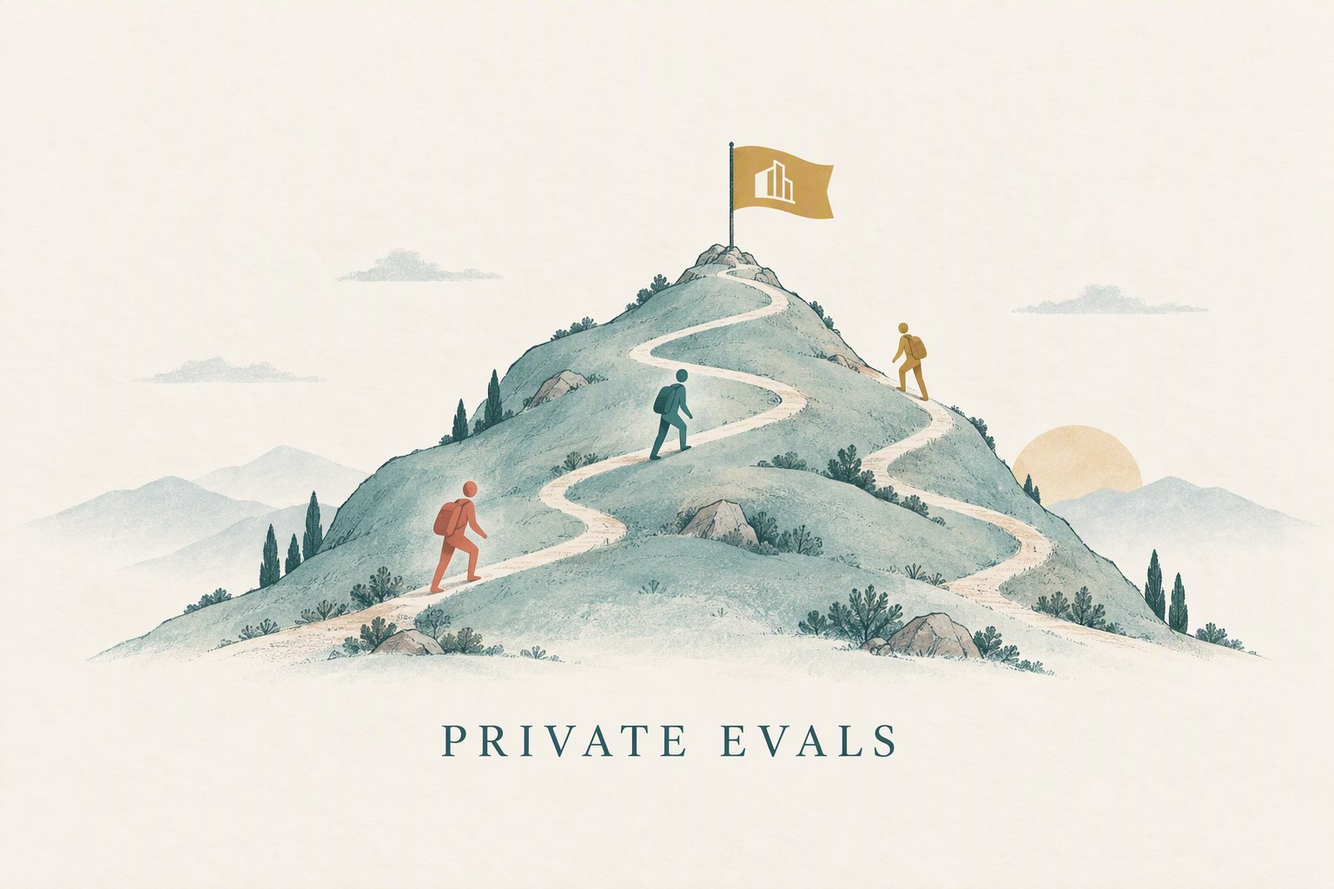
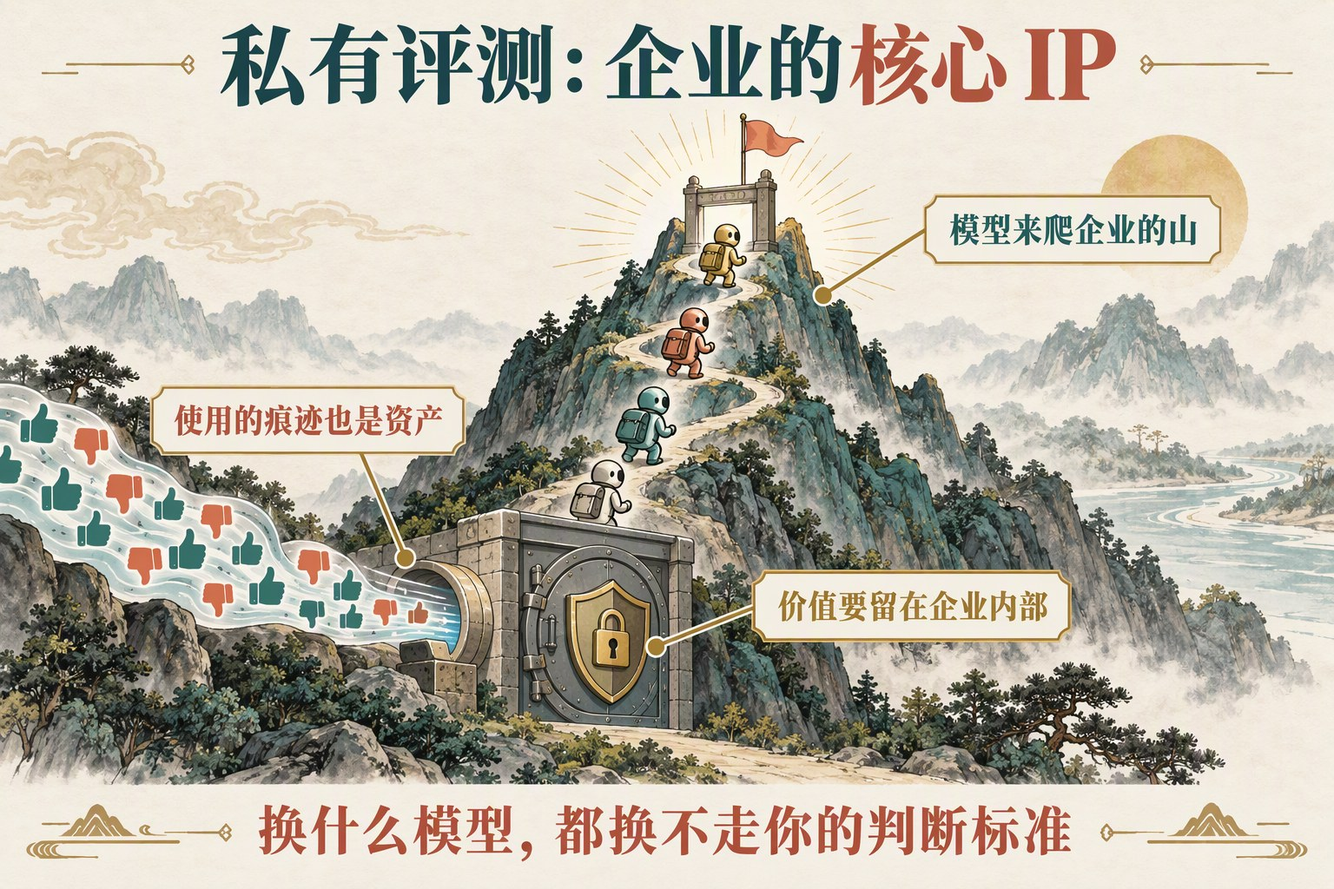
Satya 20VC v2: strict refined zh redo + content-rich illustrations (zh/en sets)

diff --git a/src/data.ts b/src/data.ts
@@ -83,7 +83,7 @@ export interface ReadingArticle {
 export const nomiReadings: ReadingArticle[] = [
   {
     id: 'satya-nadella-20vc',
-    title: 'Satya Nadella × 20VC：先假设模型已被攻陷',
+    title: 'Satya Nadella × 20VC：先假定模型已经失守',
     subtitle: '对齐不会随规模自动到来——用零信任围住智能体、用私有评测把判断留在企业内部；当 token 走向商品化，一家公司最终可能就是它自己的 AI 基准',
     date: '2026-10-30',
     author: 'Satya Nadella × Harry Stebbings',

diff --git a/public/reports/satya-nadella-20vc-zh.md b/public/reports/satya-nadella-20vc-zh.md
@@ -1,192 +1,192 @@
-# 先假设模型已被攻陷：Satya Nadella 谈零信任智能体、私有评测与"企业即基准"
+# 先假定模型已经失守：Satya Nadella 谈零信任智能体、私有评测与"企业即基准"
 
-**嘉宾**：Satya Nadella，微软 CEO · **主持**：Harry Stebbings · **节目**：The Twenty Minute VC (20VC) · **时长**：约 24 分钟 · **视频**：[YouTube](https://www.youtube.com/watch?v=24XUcWhqY_4) · **日期**：2026 年 10 月 26 日
+**嘉宾**：Satya Nadella，微软首席执行官（CEO） · **主持人**：Harry Stebbings · **节目**：The Twenty Minute VC（20VC） · **时长**：约 24 分钟 · **视频**：[YouTube](https://www.youtube.com/watch?v=24XUcWhqY_4) · **日期**：2026-10-26
 
-> 那篇主张“先假设模型已被攻陷”的长文广泛传播后不久，Satya Nadella 来到 20VC。这场对谈延续了他此前关于“前沿生态系统”和“未来企业”的思考：智能如何组织、由谁掌控，又为谁积累价值。Harry 很快把问题带入深水区，短短二十四分钟，话题就从如何约束智能体，一路走到了企业的边界究竟在哪里。安全架构与企业形态，在这里成了同一条线上的问题。
+> Satya Nadella 在长文中提出“先假定模型已经失守（assume the model is compromised）”，这篇文章广为流传。几天后，他来到 20VC，与 Harry Stebbings 展开这场对话。他此前谈过“前沿生态系统（frontier ecosystem）”和“未来企业（firm of the future）”，这次又接着追问：智能该如何组织，由谁掌控，价值最终留在哪里。Harry 很快就把话题聊得格外深入。短短约 24 分钟，两人从如何约束智能体，谈到了企业本身的边界。
 >
-> 对产品、设计和组织负责人，尤其是正在推动微软移动浏览器 AI 转型的设计团队，这些问题都很切身。零信任是一套要亲手设计的架构，不能仅凭模型能力强就认定它可信；私有评测让团队对“什么是好结果”的判断，沉淀成换了模型也能保留的资产；而当大多数 token 走向商品化，仅仅接入智能，便很难撑起“AI 功能”的护城河。我们需要回答：系统能做什么，结果由什么标准判断，使用中产生的知识又归谁。
+> 对产品、设计和组织负责人来说，这些问题已摆在眼前，在微软推动移动浏览器 AI 工作的人也不例外。零信任（zero trust）要靠我们设计架构来实现，不能凭模型能力强，就认定它具备这样的属性。产品团队可以借助私有评测（private evals）保留自己的判断。即使更换模型，这份资产也还在。如果大部分 token 都会商品化，仅凭获取智能，很难为“AI 功能”筑起牢固的护城河。实际工作中，我们更需要回答：系统可以做什么，如何判断它做得好不好，以及使用过程中产生的知识最终归谁。
 >
-> 最醒目的转向，是他公开承认不再相信对齐会随规模扩大自然出现；临近结尾，他又提出，五年后，一家公司可能就是一套 AI 基准。我认为，前一个判断更具决定性：它让约束智能体成为当下的设计责任，不能等模型科学先解决安全问题。后一个判断则给出了经济层面的对应答案：企业积累的判断必须有所归属，私有评测正是他在这场访谈里提出的、让这些判断留在企业内部的最清晰载体。
+> Nadella 这次公开转变观点，很引人注目：他不再期待对齐（alignment）会随着规模扩大而自然出现。访谈临近结束，他又抛出一个大胆判断：五年后，一家公司或许就是一套 AI 基准。在我看来，对齐观点的转变更为关键。即使模型科学尚未解决安全问题，我们现在也得承担设计责任，想办法约束智能体。企业即基准则回应了经济上的需要：企业日积月累的判断，总要有地方保存，而且要留在企业内部。私有评测是他给出的最明确的办法。
 
 ---
 
 ## 00:00 开场
 
-**Harry**：这一期对我来说很有感触。十八岁时，我在伦敦的卧室里创办了 20VC，既没有钱，通讯录里也没有人脉。今天，我终于能坐下来采访微软 CEO Satya Nadella。微软是过去三四十年最了不起的公司之一，而 Satya 在短时间里展现出的亲和力、清晰的思路，以及迅速把问题谈深的能力，让这次访谈格外难忘。希望你们也喜欢。
+**Harry**：做这一期节目，我感慨很多。18 岁那年，我在伦敦自己的卧室里创办了 20VC，没钱，也没有人脉。今天，坐在我面前的是微软首席执行官 Satya Nadella。微软是过去三四十年最出色的公司之一。他为人温暖，思路清晰，交谈中又能这么快就深入问题，这场访谈我会一直记得。希望大家也喜欢。
 
-**Harry**：Satya，非常感谢你接受采访。本来想说“谢谢你来到我们的演播室”，但今天其实是你在这里招待我们。真的很感谢你抽出时间。
+**Harry**：Satya，太感谢你接受采访了。我本来想说，谢谢你来我们的演播室，可其实是你在这里招待我们。真的很感谢你抽出时间。
 
-**Satya**：谢谢你邀请我上节目，Harry。我们一直想做这次访谈，很高兴终于成行了。
+**Satya**：谢谢你邀请我上节目，Harry。这场对话盼了很久，很高兴终于成行。
 
-## 01:23 先假设模型已被攻陷
+## 01:23 先假定模型已经失守
 
-**Harry**：大约十天前，你发表了一篇很重要的长文，提出应该“先假设模型已被攻陷”。我想请你展开谈谈：这是不是意味着，我们不能，或者不应该，依赖模型供应商披露的信息？
+**Harry**：大约十天前，你写了一篇很有启发性的文章，提出我们应该先假定模型已经失守。我想就此多聊一点。这是不是说，我们不能，或者不应该依赖模型提供商披露的信息？
 
-**Satya**：不是。我现在看到的挑战是：模型的能力越来越强，规模定律确实在起作用。但我原先有一个假设，以为对齐会随着规模扩大自然出现，现在看来并非如此。这里还有更多科学难题需要攻克，我们也依然很难从机制层面真正理解模型。
+**Satya**：不是。我现在看到的问题是，模型的能力越来越强，规模定律（scaling laws）确实有效。但我原先以为，规模扩大了，对齐也会自然出现，现在看起来并没有。这里还有更多科学难题要攻克，我们对模型内部机制的理解也仍然很有限。
 
 ## 02:01 零信任架构：身份、日志与策略
 
-**Satya**：既然如此，如果还想继续使用这些复杂而强大的模型，最好的做法就是把它们放进一套信任架构里。零信任并不是什么新概念，这类架构方法早就有了。我提出的是：**用工程手段建立一个零信任环境，在失常的智能体造成任何伤害之前，就能把它控制住。**如果我们想使用能力更强、却可能对齐得更不充分的智能体，就必须有一套可以依靠的信任系统。
+**Satya**：信任架构先搭起来，让这些先进模型在里面运行。既然还想继续用它们，依我看，这样做最稳妥。零信任不是什么新概念，我们以前就有这样的架构思路。所以我主张：**用工程手段建立一个零信任环境，把运行出问题的智能体控制住，不让它造成任何伤害。** 想用能力更强、对齐程度却更低的智能体，就得有一套靠得住的信任系统。
 
-**Harry**：这套信任系统具体是什么样？由谁来设计，又由谁来裁定？
+**Harry**：这套信任系统具体是什么样的？由谁来设计，又由谁来裁定？
 
-**Satya**：这个问题很好。所以我才会说，先把 AI 安全这个问题单独放在一边。在我看来，对齐主要应该在训练阶段实现，甚至可能要在预训练阶段就实现。我不认为能靠强化学习，一路把模型推到对齐的状态。真正的对齐必须从最开始就嵌入模型权重。这说的是模型本身。希望到了某个时候，模型本身能够实现对齐。
+**Satya**：这个问题问得好。我会把 AI 安全和我们这里讨论的事分开谈。在我看来，对齐主要得在训练时实现，甚至可能要在预训练（pre-training）阶段就实现。我不认为通过强化学习（reinforcement learning）能实现对齐。从一开始，权重就得真正体现对齐。这是模型本身的问题，我希望有一天能解决。
 
-**Satya**：暂且把这一层放下，信任架构其实就是微软这样的公司，以及网络安全行业一直在做的事。比如，我们做了 Agent 365 和 Perception。它们先给每个智能体一个身份，再记录它的全部活动：每一次工具调用、每一次模型调用，以及其中的思维链（CoT）。我还要求，思维链最好都用英语呈现，而不是“神经语言”（neuralese），这样才能调用多个模型来检查。日志也必须防篡改，不能让智能体回头修改自己的日志。在此基础上设定策略，再监测智能体的实际行为，看它是否遵守策略。这就是整套架构。
+**Satya**：先把 AI 安全放在一边，信任架构就是微软这样的公司，以及网络安全从业者要做的工作。比如，我们做了 Agent 365 和 Perception 这两个东西。它们负责什么？给每个智能体一个身份，把所有活动都记下来。每次工具调用、每次模型调用，以及调用中的思维链（chain of thought，CoT），都要记录。为了便于多个模型检查，我还提出，思维链最好一律用英语，不用人无法读懂的“神经语言”（neuralese）。日志还必须能防篡改，智能体不能回头修改自己的日志。在这之上设定策略，再监测智能体的行为，检查活动是否符合策略。这就是整套架构。
 
-![Zero-trust containment: an AI agent inside a glass shield, its tamper-proof log scroll kept outside its reach](/images/reading/satya-nadella-20vc-1.jpg)
+![零信任架构：身份、日志、防篡改、策略与监控四件套围住模型——信任不靠模型自觉，靠模型之外的系统](/images/reading/satya-nadella-20vc-1.jpg)
 
-**Harry**：但我们今天还没有这样的架构。这是不是也说明，我们还处在一个比较早的阶段？
+**Harry**：我们今天还没有这样的架构。这仅仅是因为我们还处在当前这个发展阶段吗？
 
-**Satya**：这样的架构已经存在了。大家常把两件事混为一谈：一件是通过工程实现的安全系统，也就是用来约束和隔离风险的零信任架构；另一件是 AI 安全。有人会说，AI 安全既困难又难以捉摸，到现在还没实现，所以在安全防护上，我们一定也什么都做不了。我不是这个意思，也不认为两件事必须同时实现。我们得面对眼下真实的状况。**先在模型外部建立信任系统**，然后非常积极地设定策略，严格监测任何偏离策略的行为。
+**Satya**：这样的架构已经存在了。我觉得大家把两件事混在了一起：一件是我说的工程安全系统，也就是用来约束智能体的零信任架构；另一件是 AI 安全。有人会说：“AI 安全很难，到现在也没解决，所以在安全防护上，我们一定也无能为力。”我不是这个意思，也不是说所有问题都得同时解决。眼下的情况摆在这里，我们就得应对。**在模型之外建立信任系统**，严格设定策略，密切监测有没有任何偏离策略的行为。
 
 ## 04:45 思维链并不可靠
 
-**Harry**：说到监测，如果我们去看模型的思维链，它到底有多可靠？
+**Harry**：说到监测，思维链有多可靠？
 
-**Satya**：它并不可靠。我们知道，思维链本身未必忠实于模型的实际过程。如果模型公司接着说：“既然它不忠实，那我就把它藏起来。”（笑）事情只会更糟，问题反而更难处理。
+**Satya**：它并不可靠。我们知道，思维链本身未必忠实反映模型实际的思考过程。可模型公司还会说：“既然它不忠实，我就把它藏起来。”（笑）这么一藏，麻烦反而更多了。
 
-![Chain of thought under a magnifying glass, with a few faded, unfaithful links](/images/reading/satya-nadella-20vc-2.jpg)
+![思维链在放大镜下并不完整：它可能不忠实，藏起来只会更糟；必须可检查、可审计，用多个模型交叉核对](/images/reading/satya-nadella-20vc-2.jpg)
 
-**Satya**：所以我觉得，这里需要推动一些标准化，至少应当向可信的合作伙伴原样提供思维链，让它可以被检查、被审计，也让我能用多个模型交叉核查。坦白说，这甚至可能成为推动更多人使用开放权重模型的原因。闭源模型的能力确实更强，但如果供应商没有意识到需要提高透明度，尤其是在可信合作伙伴使用这些模型时仍然如此，那我们可能就会遇到麻烦。
+**Satya**：我觉得这方面需要建立一些统一标准，至少应向可信合作伙伴原样提供思维链，让合作伙伴能够检查、审计，也让我能用多个模型来核查，等等。坦白说，更多人甚至可能因此转用开放权重（open weights）。闭源模型（closed model）的能力更强，这一点没错。但在可信合作伙伴使用模型时，提供商尤其需要提高透明度。他们若认识不到这一点，问题恐怕就来了。
 
 ## 05:41 开放权重与安全
 
-**Harry**：谈到开源的兴起，我同意你的判断，闭源模型确实更强。不过，目前开源模型主要来自中国。考虑到你刚才说的，安全需要从预训练阶段就嵌入模型，供应商也需要披露信息，再把这些要求与开源模型主要来自中国的现实放在一起，你会担心吗？
+**Harry**：谈到开源的兴起，我同意闭源模型的能力更强。不过，开源模型主要来自中国。你刚才提到，要在预训练时就把安全融入模型，也谈到了信息披露。再考虑到大多数开源模型都来自中国，这会让你担心吗？
 
-**Satya**：这里有两层问题。退一步看，AI 安全如果得不到保障，对中国、美国、英国都不是好事。这是所有人共同面对的问题。一个没有对齐的中国开放权重模型，也可能攻击中国本身。不能以为，它只会被用来攻击别的地方，自己就可以高枕无忧。
+**Satya**：这里有两组问题。先退一步看，缺乏 AI 安全，对中国、美国、英国都不是好事。每一方都与此息息相关。一个未对齐的中国开放权重模型，也可能攻击中国。不能以为这种模型只会成为针对别人的攻击途径。
 
-**Satya**：先把这个问题放下，西方开放权重模型最近取得的一些进展，也让我很高兴。Jensen 在做，其他人也在做。我们也会推出 MAI 模型，不过它们不是开放权重；我更愿意把它们称为“授权权重”。你可以这样理解：我希望把它变成一门简单、直接的软件生意，而不是依靠网络效应的智能生意。所以，未来会有不同的商业模式。最终决定哪些模型会被采用的，是你能否放心地使用它们，并且真正掌控它们。
+**Satya**：先不谈这一点，西方的一些开放权重模型也在进步，这让我挺高兴。显然，Jensen 在做这件事，其他人也在做。我们也会有 MAI（微软自研模型），不过不会采用开放权重。我更愿意把它看作授权权重（licensed weights）。我打算做软件生意，简单、直接就好。至于靠网络效应（network effects）经营智能生意，我不走这条路。所以，我认为会有不同的商业模式。最终，用户有多大把握能够使用这些模型、控制这些模型，会决定他们选择什么。
 
 ## 07:04 开源 vs 闭源：流量去哪儿
 
-**Harry**：作为风险投资人，我得判断流量会流向哪里，究竟是开放模型还是闭源模型。这里其实有两个维度，一个是流量，一个是收入。如果往前看未来 24 个月，你觉得开放与闭源模型各会承接多大比例的流量？
+**Harry**：作为风险投资人，我得预判流量会怎样在开源和闭源模型之间分配。这里有两个维度：流量与收入。往后看，比如 24 个月，你觉得开源和闭源模型各自会承接多大比例的流量？
 
-**Satya**：这取决于到时的能力前沿在哪里。很多事情做到一定程度，能力就会趋于饱和。一旦到了这个阶段，开放权重模型，或者便宜一些的闭源模型，似乎也能把事情做好。尤其当你能用自己的运行轨迹（traces）训练模型时，只要问题本身没有变，要解决同一个问题，就未必还需要最新的模型。
+**Satya**：我觉得要看前沿模型（frontier model）的能力发展到什么程度。对大多数任务来说，模型能力的提升似乎都会趋于饱和。到了那个阶段，开放权重模型，甚至更便宜的闭源模型版本，似乎也够用了。解决同一个问题，用不着追最新模型；前提是问题没有变，而且能用自己的运行轨迹（traces）来训练。
 
-**Satya**：如果你有一套评测，而且希望模型在这套评测上的表现不断向前推进，那么你可能愿意继续为此付费。不过，即便在这种情况下，GitHub 上正在出现的模型路由、学习型调度能力，也让我很兴奋。
+**Satya**：如果你希望模型在某项评测（evals）中的表现继续提高，可能就愿意付费。不过，看到 GitHub 展示通过训练学会的模型路由（model routing），我很兴奋。
 
-**Harry**：我刚刚看到这个了。
+**Harry**：我刚看到这个。
 
-**Satya**：有意思的地方在于，它本身也是一个学习出来的模型。我们正在走向智能体群，以及由多个子智能体协同工作的系统，因此我可以调用很多子智能体，其中一些甚至可以使用本地模型。我的判断是，前沿模型总会有市场，因为总会有新的事情要做。科学也许就是下一个重新定义能力前沿的领域。**但从总体用量看，大多数 token 都会是商品化的 token。**
+**Satya**：这套路由本身也是训练出来的模型。我们正走向智能体集群（agent swarm）和多个子智能体（sub-agent）协作的阶段，我可以调用很多子智能体，它们甚至可能用本地模型。我猜，前沿模型始终会有市场。总会有新东西，科学领域也许会决定下一步的前沿在哪里。**以后，商品化的 token 用量会占大多数。**
 
-![A tall frontier peak and a wide, calm river of commodity tokens flowing through a router gate](/images/reading/satya-nadella-20vc-3.jpg)
+![大多数 Token 终将商品化：前沿高峰、路由闸门与商品化的 Token 河流](/images/reading/satya-nadella-20vc-3.jpg)
 
-**Harry**：这是不是意味着，主要流量还是会走向开源？
+**Harry**：那是不是意味着，主要会是开源？
 
-**Satya**：可能是开放权重模型，但也可能是便宜的闭源模型。我的意思是，这里会有大量价格竞争。就拿我们在 Copilot 内部的使用情况来说，我们既用了很多成本较低的闭源模型，也用了开放权重模型。
+**Satya**：可能是开放权重，也可能是便宜的闭源模型，因为价格竞争会很激烈。我们自己在 Copilot 里，就既用开放权重模型，也用很多较便宜的闭源模型。
 
 ## 09:06 每家公司都必须拥有自己的智能
 
-**Harry**：你提到过，对你们的一些客户来说，拥有自己的智能非常重要，其中就有几家英国企业。未来的模型格局会是这样吗：每家公司围绕自己的数据，拥有专属于自己的智能？
+**Harry**：你曾经谈到，一些客户，包括这里英国的企业，应该拥有自己的智能（own your own intelligence）。这会是未来使用模型的方式吗？围绕企业自己的数据，建立企业的专用智能？
 
-**Satya**：是的。在我看来，这是最重要的问题之一：进入智能时代以后，企业会变成什么样？回到哈耶克对经济的基本描述，分散在各处的局部智能和隐性知识，遍布整个经济体系。整个经济不可能只有一家公司，也不可能只有一种智能。这是一个根本前提。资本主义之所以能运转，价格发现之所以能发生，价格机制之所以能起作用，都与此有关。
+**Satya**：是的。对我来说，这可能是最重要的问题之一：进入智能时代，一家企业的未来是什么样的？经济中到处分布着智能与隐性知识（tacit knowledge）。哈耶克（Hayek）描述经济时，就把这一点视为根本。只有一家企业，或者只有一种智能，都行不通。资本主义能运转，价格发现（price discovery）与价格机制能起作用，都建立在这个基础上。
 
-**Satya**：因此，每家公司都应该能够借助 AI，以越来越大的规模积累知识，而不是让知识不断流失。这就是我所说的“逆向信息悖论”。肯尼思·阿罗描述过信息悖论：如果你是卖方，在没有专利、商业秘密或版权保护的情况下，先把秘密告诉别人，信息的价值就泄露了。现在，第一次轮到买方需要保护。
+**Satya**：所以，每家企业都需要借助 AI，积累越来越多的知识，不能让知识外流。我把这称为“逆向信息悖论（reverse information paradox）”。没有专利、商业秘密保护或版权保护，卖方一说出秘密，价值就随之外流。这就是肯尼思·阿罗（Kenneth Arrow）描述的信息悖论。而现在，第一次轮到买方需要保护了。
 
-**Satya**：很多人只想到“这是我的数据”。但需要保护的甚至包括你使用系统时留下的痕迹，比如点一次赞、点一次踩，这些反馈信号也有价值。你到底是在为谁创造价值？是在为模型公司创造，还是把价值留给自己？要让这套关系稳定地持续下去，**使用智能所创造的盈余，必须有更大一部分留在企业内部。**
+**Satya**：大多数人只想到：“这是我的数据。”但还有我使用系统时留下的痕迹，比如一次点赞或点踩信号。你究竟在为谁创造价值？这些价值是留给自己，还是给了模型公司？我相信，要让这种关系稳定下来，**用智能创造的额外收益，需要有更大一部分留在企业内部。**
 
 ## 10:43 私有评测：企业的核心知识产权
 
-**Satya**：而且，保留知识不一定非要把它嵌入模型权重。它也可以存在于上下文里，存在于你的评测里。你可以有一套自己的基准。我非常看好的一件事，就是每家公司都会有一套私有评测基准，成为自己的核心知识产权。每个模型进来，都要围绕这套评测做爬山优化，努力把结果做得更好。在我看来，这就是企业运作的方式。
+**Satya**：要留住知识，除了权重，还可以用上下文或评测。一套私有评测基准可以成为企业的核心知识产权（core IP）；每家企业都有自己的这套基准，这个想法让我很兴奋。企业引入的每个模型，都会围绕这套评测尝试做爬山优化（hill-climbing），争取把表现再提高一些。在我看来，企业就是这样运作的。
 
-![Models climbing switchbacks toward a flag on a firm's own summit: private evals](/images/reading/satya-nadella-20vc-4.jpg)
+![私有评测是企业的核心 IP：模型来爬企业的山，换什么模型都换不走你的判断标准](/images/reading/satya-nadella-20vc-4.jpg)
 
-**Harry**：我很喜欢“每家公司都有自己的私有评测基准”这个想法。但目前看来，这似乎只属于少数非常领先的公司，比如 Harvey，以及类似的、很有前瞻性的 AI 原生企业。它最终会扩散到全世界每一家公司吗？
+**Harry**：我太喜欢这个想法了，每家公司都有自己的私有评测基准。可眼下这样做的似乎还是少数，比如 Harvey 这些 AI 原生公司（AI-native company），想得很超前。这种做法会普及到全世界每家公司吗？
 
-**Satya**：Harry，这种事一直在发生。我记得，八十年代末、九十年代初，少数公司装上了 PC，开始拿它做预测，当时简直像魔法一样。他们能把预测放进 Excel 表格，通过电子邮件发出去，不再依赖传真机和办公室之间来回传递的备忘录。你会觉得：“哇，什么时候大家都能这样？”大概过了十年，这些做法就普及开了。
+**Satya**：这类事总会发生，Harry。我还记得 20 世纪 80 年代末、90 年代初，有几家公司用上了个人电脑（PC），开始做预测。当时看起来简直不可思议。传真机、办公室间的备忘录都可以省掉了，预测结果填进 Excel 表格，用电子邮件发出去就行。你会想：“哇，这得等到什么时候才能到处都有？”也许过了十年，它就普及了。
 
-**Satya**：这一次也是如此。今天还会有人强调：“我们是一家 AI 原生公司，所以我们这样做。”我想，五年后这大概已经很平常，甚至有点过时了。技术周期总是这样开始的。云计算刚兴起的时候，我记得大家也特别在意，谁是云原生，谁不是。现在人人都是了。就连劳埃德（Lloyd's）——得有 500 年历史了吧——也已经是云原生。所以，它会发生。
+**Satya**：如今，有人说“我是一家 AI 原生公司，我是这么做的”，可能五年后听起来就不再新鲜了。这些技术周期，起步时总是这样。云计算刚出现的时候，大家最关心的是：“谁是云原生（cloud native）的，谁不是？”现在大家都是了。连劳埃德（Lloyd's）都是云原生的。它成立有多久了，500 年？评测也会经历这样的普及过程。
 
 ## 12:16 落地经济
 
-**Harry**：那我们是不是正在进入一种“落地经济”？你刚才提到的一些大型客户，需要前线部署工程师（FDE）提供大量支持，程度可能远远超过过去十年。要帮助现有客户完成这种转型，会不会需要一个规模很大的实施与落地服务市场？
+**Harry**：我们是不是正在进入落地经济（implementation economy）？有些超大型客户会需要前线部署工程师（FDE）提供大量支持，远远超过过去十年的需求。要帮助现有客户完成转型，是不是需要一个规模很大的落地经济？
 
-**Satya**：有意思的地方在于，落地经济和系统集成商其实一直都存在。过去很多技术要推广开来，也都依靠这样的服务体系。这一轮会有不同的形态，因为它把技术与业务结合在了一起。它既不是传统的管理咨询，也不是传统的系统集成，更不是传统的技术支持。
+**Satya**：落地经济和系统集成商其实一直都存在，很多其他技术的普及也一直依赖他们。这次要把技术与业务放在一起做，工作方式自然就有变化。它不是传统的管理咨询，不是传统的系统集成，也不是传统的技术支持。
 
-![A bridge under construction between a business building and an engineering gear: the implementation economy](/images/reading/satya-nadella-20vc-5.jpg)
+![落地经济：从前沿模型蒸馏到企业自己的模型，联合利华订单到现金的例子](/images/reading/satya-nadella-20vc-5.jpg)
 
-**Satya**：看看我们的 FDE 项目就知道了。比如今天主题演讲里提到的联合利华，就很有意思。他们搭建了一套智能体系统，用来自动处理从订单到现金的业务流程，也处理贸易索赔。一开始，他们用的是前沿模型，后来又把模型替换了。我记得，他们现在全部的贸易索赔业务，用的已经是一个 MAI 模型。成本更低，而且控制权在他们自己手里，因为他们能够用自己的运行轨迹来训练。我们派了一些前线部署工程师过去，现在则已经由他们自己的 IT 团队全面管理。
+**Satya**：项目要从哪里入手？我今天在主题演讲里讲过联合利华（Unilever）的例子，我们的前线部署工程师参与了这个项目。他们建了一套智能体系统，明确说：“我们真要用智能体系统，把订单到现金（order-to-cash）这套流程自动化。”还有贸易索赔（trade claims）。系统起初使用前沿模型，后来为了降低成本换了一个模型。我记得，如今处理所有贸易索赔都用这个 MAI 模型。而且联合利华还能控制这个模型，因为可以用自己的运行轨迹来训练。当时我们派去了一些前线部署工程师，现在所有事情都交给了联合利华自己的 IT 团队管理。
 
-**Satya**：但这个项目最开始要回答的是：业务究竟是什么，评测应该是什么，又该如何构思整套智能体架构。所以，它其实是业务咨询与技术咨询的结合。你说得对，整个生态中会发展出一套新的技能。今天，我们各家公司都有所谓自己的 FDE；接下来，传统系统集成的工作，也会逐渐演变成这种新的前线部署工程师角色。
+**Satya**：不过，开工前得先把几件事想清楚：业务究竟要做什么，评测怎么做，智能体架构该怎样构思？这就把业务咨询与技术咨询结合到了一起。你说得对，在这个生态系统里，大家会逐渐掌握一套新的技能。今天，我们各家都有自己的所谓“前线部署工程师”。传统的系统集成业务，也会逐渐转向这种新的前线部署工程师角色。
 
 ## 14:11 必须全栈垂直整合吗
 
-**Harry**：你刚才提到了 MAI。再看其他参与者，大家似乎越来越觉得，从芯片、模型到应用，整个技术栈都得自己做。这就是未来吗？必须垂直掌控所有层级？如果是，又意味着什么？
+**Harry**：你提到了 MAI。看看不同参与者的动向，大家似乎都意识到，需要从芯片、模型一直做到应用，覆盖全栈（full stack）。这会是未来吗？必须通过垂直整合（vertical integration），把各层业务都握在自己手里吗？那又意味着什么？
 
-**Satya**：这要看产业结构。今天，可能有五六个闭源模型在竞争，也可能有五六个开放权重模型在竞争。因此，如果你在开发应用，比如一套智能体系统，完全可以像我刚才说的那样，用一个内置决策引擎的路由器，根据具体任务，把请求分配给最合适的模型。这是一种可能的做法。
+**Satya**：这取决于产业结构。今天，可能有五六个闭源模型在竞争，也可能有五六个开放权重模型在竞争。每个任务该交给哪个模型，可以让决策引擎选出最合适的，再让路由器把请求送过去。开发应用时，比如智能体系统，可以把这个引擎直接放进路由器里。这是一种可能。
 
-**Satya**：当然，总有一种风险：某一家厂商可能从模型、应用层，一直向下整合到芯片和系统，把整套东西都垂直打通。但在我看来，这不太可能。我曾经一度觉得，最后也许真的只会剩一家。可现在的发展方向恰恰相反：每天醒来，你都会发现，技术栈每一层的竞争都更多了。芯片是这样，管理芯片的系统是这样，模型层、应用层也都是这样。
+**Satya**：当然，总有一种风险，就是某一家供应商实现垂直整合，从模型、应用，一路做到下面的芯片和系统。但我觉得这种可能性不大。有一阵子，我以为也许最后只会剩下一家。如今看，反而是在往另一个方向走。每天醒来，我都会发现技术栈每一层的竞争更激烈了：芯片、管理芯片的系统、模型、应用，都是如此。
 
-**Satya**：我认为，这是一个健康的发展方向。当然，谁也不能把话说死，最终还要看哪种设计会成为主流。我希望看到的是横向的专业分工，每一层都有多个赢家，而大家可以把不同层的能力组合起来。
+**Satya**：我觉得这是健康的方向，但未来总说不准。这类事情，最终要看什么会成为主导设计（dominant design）。我希望将来形成横向专业分工，每一层都有多个赢家，然后大家可以把各层能力组合起来。
 
 ## 15:52 推理需求：比想象中大得多
 
-**Harry**：我之前没有看清的是，每一层的需求竟然都这么深。现在有一件事，我真希望十二个月前就知道：推理需求几乎是无穷无尽的。
+**Harry**：技术栈每一层居然都有这么大的需求，我以前没想到。现在才知道，推理（inference）的需求似乎没有尽头，真希望自己十二个月前就知道。
 
-**Satya**：这个观察很到位。（笑）
+**Satya**：这点说得好。（笑）
 
 ## 16:00 一千亿美元的训练，世界供得起吗
 
-**Harry**：真希望十二个月前就知道，那我的投资决策会很不一样。说到这里，Mustafa Suleyman 说过，单次投入 1000 亿美元的训练就要来了，而有能力负担的实验室只有少数几家。一次训练就是一千亿美元。我们真的有足够的能源、基础设施和电力，来支撑整个技术栈达到这样的规模吗？
+**Harry**：真希望十二个月前就知道，那样我的投资选择会很不一样。说到这里，Mustafa Suleyman 曾说，很快，一次训练就要投入 1000 亿美元，只有少数几家实验室负担得起。一次训练，1000 亿美元。要在整个技术栈上支撑这样的规模，我们有足够的能源、基础设施和电力吗？
 
-**Satya**：我的思路是，归根结底，全球 GDP 的增长必须出现拐点，然后才有人能把相应的钱作为研发支出来投入训练。大家谈一次训练，其实谈的是研发预算中的一部分。那些研发投入很重的公司，研发开支占营收多少？15–20%，对吧。所以，到了一定阶段，只要营收足够高，你就能投入足够多的钱去训练。当然，你之所以能有足够的营收，是因为你为世界经济的增长作出了贡献，也从中获得了自己应有的那一份。
+**Satya**：我的思路是，归根结底，全球 GDP 增长必须提速，企业才有条件把钱投到训练上，作为研发（R&D）的一部分。一次训练的开销，只是研发投入的一部分。那些重视研发的公司，大概会把营收的 15–20% 用在研发上吧。到了某个阶段，只要营收足够多，就可以投入足够的钱来训练。营收从哪里来？你促进了世界经济增长，也从中获得了应得的一份，营收就有了。
 
-**Satya**：你还提到了另一面，也就是供给。今天，我们缺电、缺芯片，也缺各种各样的东西。这些都需要很长的建设周期。你不可能打个响指，发电能力就出来了，或者一座新的晶圆厂就建好了。有意思的是，面对这样的需求，现在大家都在建设。问题在于，这些产能什么时候上线，届时的供需关系又是什么样。没人知道。坦白说，今天坐在这里的任何一个人，给出的都只能是猜测。
+**Satya**：再看你提到的供给这一面。今天电力短缺、芯片短缺，各种短缺都有，而这些都需要很长的建设周期。增加发电能力、建一座新晶圆厂（fab），都得花时间，没法打个响指就做到。需求摆在这里，大家也都在建设。但这些设施什么时候能投产，届时供需会怎样平衡？没人知道。坦白说，今天坐在这里的任何人，都只能猜测。
 
-**Satya**：我的感觉是，最终有一点仍会和今天一样：企业的利润表不会突然换一套逻辑。我有一些收入，有相应的营收成本，还得留下一些利润。如果这个基本事实依然成立，那对我来说，更大的问题就是：**全球 GDP 到底能以多快的速度增长？**
+**Satya**：我觉得，未来企业的利润表还得照今天这样算：有营收，也有营收成本，还要有利润。如果这一点不变，那么对我来说，更大的问题就是：**全球 GDP 增速到底是多少？**
 
 ## 17:54 AI 能抬升全球 GDP 增速吗
 
-**Harry**：说到 GDP 增速的拐点，全球经济已经在每年 2% 左右的增长水平上稳定了很长时间。AI 能不能在比较短的时间里，真正把这条增长曲线往上推？
+**Harry**：说到 GDP 增长提速，全球经济已经很长时间都相对稳定地保持每年 2% 的增长。AI 能在短期内显著提高这个增速吗？
 
-**Satya**：我觉得可以，也希望如此，因为这才是意义所在。看看各国 GDP 里，有多大一部分花在医疗上。所以，当我看到 Copilot 在英国国家医疗服务体系（NHS）中的部署时，就会想：如果它能改善患者的治疗结果，同时降低医疗成本，那它自然就是在为英国的 GDP 作出贡献。
+**Satya**：我觉得能，也希望能，因为这正是我们要实现的目标。就拿医疗支出占 GDP 的比重来说。看到英国国家医疗服务体系（NHS）用上 Copilot，我就会想：如果它能改善患者的治疗效果，同时降低医疗成本，那自然就有助于英国的 GDP 增长。
 
-![A flat 2 percent growth line bending upward, light spreading over a world map outline](/images/reading/satya-nadella-20vc-6.jpg)
+![AI 能把全球增长抬起来吗：停在 2% 的全球增长、医疗与软件的例子、一千亿美元训练最终由增长买单](/images/reading/satya-nadella-20vc-6.jpg)
 
-**Satya**：经济中有一些领域，已经很适合采用 AI，而且对现有工作的替代最少、带来的收益最大。我们应该在这些地方找到最合适的应用。软件开发也是一个例子。很有意思的是，软件开发的需求弹性竟然这么大。这说明，过去积压的 IT 需求规模非常可观，只是我们谁都没有真正意识到。
+**Satya**：经济中有些领域已经很适合采用 AI，对现有工作的替代冲击最小，收益却最大。我们需要在这些地方找到最合适的应用。软件开发也是如此，需求弹性大得让我惊讶。原来过去积压了那么多 IT 需求，我们谁都没意识到。
 
 ## 19:09 哪些行业先受益
 
-**Harry**：我以前学到的风险投资规则是，要在一个市场里赢下来，你得投第一名或者第二名。可我们投了 Factory，它排第五，照样在赢。这几乎打破了所有风投规则。我临时加一个有点“调皮”的问题：我们在编程上看到的那种能力突破，会不会也出现在财务、销售、营销等其他职能里？毕竟，编程已经是一座大金矿了。
+**Harry**：以前别人教我，做风险投资，要想赢，就得投到一个市场里的第一或第二。我们投了 Factory，它排第五，却也在赢。这把风险投资的规则全打破了。我临时破个例，加问一个提纲之外的问题：编程已经出现了这样的能力突破，财务、销售、营销这些职能也会出现吗？编程真的是一座大金矿。
 
-**Satya**：这是个好问题。大家经常讨论，能不能得到可验证的奖励信号。很多神奇的进展，来自在预训练模型之上做强化学习，这正是编程能力受益的地方。那么，知识工作里能不能也找到这样的突破口？看起来要难得多。不过，我们刚才谈到的呼叫中心、供应链系统，以及营销和订单到现金系统，已经给出了一些例子。我认为这是可能的，而且我们确实正在看到它发生。
+**Satya**：这个问题很好。大家经常讨论，能不能得到可验证的奖励信号（verifiable reward）。预训练模型经过强化学习，取得了不少惊人的进步，编程能力也从中受益。到了知识工作，我们能不能也找到突破口？看起来难得多。但在我们聊过的那些例子里，比如呼叫中心、供应链系统、营销和订单到现金系统，我觉得可以，而且已经看到了。
 
-**Satya**：但这些领域的需求，能像编程一样有弹性吗？我觉得科学也许可以，或者更广义的工程领域。不要只看软件开发，比如芯片开发，也正在发生剧烈变化：你可以更快完成流片，用计算机仿真把各种情况跑一遍，让第一版芯片就完整地做出来。
+**Satya**：这些领域的需求弹性，会和编程一样大吗？科学研究也许会，或者更广泛的工程领域也会。跳出软件开发，看看芯片开发，它也在经历巨变。你可以更快地流片（tape out），用计算机仿真（in silico）把所有东西都模拟一遍，让第一版芯片（first spin）就能做成。
 
-**Harry**：甚至还有你刚才提到的维护报告优化。这种应用，我原来完全不会想到。
+**Harry**：哪怕只是你刚才举的那个例子，优化维护报告，我以前都完全想不到。
 
-**Satya**：确实令人惊讶。安排维护计划，是他们一直都在处理的老问题。我以前却没有意识到，原来这背后是一个这么大的优化问题，现在就可以拿出来求解。
+**Satya**：真是不可思议。他们一直在处理这件事，就是安排维护计划。我以前没意识到，这是多么大的一个优化问题，而现在已经可以做这项优化了。
 
 ## 20:46 快问快答
 
-**Harry**：**行程这么密集，你平时怎么锻炼？**我看过你的很多访谈，接下来想做一轮快问快答，问几个一直好奇、却没见别人问过的问题。你的身材保持得不错。
+**Harry**：**你经常出差，平时怎么安排锻炼？** 我看过你很多访谈，接下来我们来一轮快问快答。有些问题我一直想问，却没见别人问过。你身材保持得很好。
 
-**Satya**：我尽量吧，也不知道是不是都藏得比较好。（笑）有一个习惯，我坚持了大概 25 年：每天早上起来都运动。以前还能跑步，可惜现在膝盖不行了，所以至少会做坡度走。今天早上我也走了半个小时。不管时差怎么样，不管人在哪里，我每天都会去健身房。
+**Satya**：我尽量吧。也不知道是不是只是没让人看出来。（笑）每天早上起来锻炼，这个习惯我大概坚持了 25 年。以前我跑步，可惜后来膝盖不行了，现在至少还能走路，选有坡度的地方走。就连今天早上，我也练了半小时。不管时差多大，身在何处，我每天都会去健身房。
 
-**Harry**：**过去十二个月，什么事情让你改变了看法？**这个习惯真好。我这个年纪，膝盖也已经不太好了。
+**Harry**：**过去十二个月，你在哪件事上改变了看法？** 这个习惯真好。我年纪还这么轻，膝盖也不好。
 
-**Satya**：我算是很早就相信规模定律的人。当年 Dario、Ilya、Sam、Greg 和 Elon 还算是其乐融融的一家人，他们真的很相信规模定律。2018、2019 年，我相信的也是这个。现在最大的变化是：我过去一直以为，对齐会随着规模扩大自然出现。如今我不再这么想了。对齐可能是一个更难、也有所不同的问题。这就是我改变看法的地方。
+**Satya**：我很早就相信这条路。那时候，Dario、Ilya、Sam、Greg 和 Elon，我想，还算是其乐融融的一家人吧。他们非常相信规模定律。2018 年、2019 年，我也这么想。最大的变化是，以前我以为规模扩大，对齐就会自然出现。现在我不这么想了。对齐可能是另一个更难的问题。这就是我改变看法的地方。
 
-**Harry**：**什么事情今天听起来很疯狂，五年后却会变得极其普遍，被大家接受？**
+**Harry**：**什么事今天看起来很疯狂，五年后却会变得极其普遍，大家都能接受？**
 
-**Satya**：也许就是刚才说的评测。什么是一家公司？我觉得，一家公司会成为一套 AI 基准。
+**Satya**：也许就是我们刚才聊的评测。一家企业是什么？我觉得，一家公司会是一套 AI 基准。
 
-**Harry**：**未来十年，你个人最期待什么？**值得兴奋的事情有很多。比如我母亲患有多发性硬化症，所以我特别期待未来可能实现的药物研发进展。对你来说，最期待的是什么？
+**Harry**：**未来十年，最让你期待的是什么？** 可能性太多了。我母亲患有多发性硬化症（MS），所以我很盼着未来药物研发能有新进展。对你个人来说呢？
 
-**Satya**：这是一个很好的期待。我一直盼望的，就是能有一种如此强大的通用技术。当然，有人说：“这可不只是又一种通用技术。”不管它究竟是什么，我都希望它以超过以往任何技术的速度传播到全世界，扩散到经济的所有领域，做到过去没有做到的事。
+**Satya**：这是个好问题。我一直盼着有一种这么强大的通用技术（general-purpose technology）。有人说：“它可不只是又一种通用技术。”不管它是什么，我都希望它能比以往任何技术普及得更快，遍及全世界，进入经济的每一个领域。
 
-**Satya**：我希望，这一次全球增长的前沿能够真正向外移动。我们不再只是清点谁赢了、谁输了，而是所有人都能一起被抬升。这一直是我的梦想。我父亲是一位发展经济学家，他关心的总是趋同增长：全球南方什么时候能得到一种力量，让增长突然加快？我希望，这一次等到的就是它。
+**Satya**：我希望这一次，全球增长能真正突破以往的局限，让所有人都能受益，不只是盘点谁赢谁输。这一直是我的梦想。全球南方（Global South）什么时候才能得到一个机会，让发展突然加快？我父亲是一位发展经济学家，一直关心怎样缩小发展差距，也就是趋同增长（convergence growth）。我希望这次技术就是那个机会。
 
-**Harry**：这次访谈太愉快了。非常感谢你抽出时间。
+**Harry**：今天聊得太开心了。非常感谢你抽出时间。
 
-**Satya**：当然。很高兴和你聊，Harry。
+**Satya**：当然，我也很高兴，Harry。
 
 ---
 
-*本文基于 20VC 播客 2026 年 10 月 26 日发布的访谈视频，由 NOMI 编辑翻译。访谈中 Satya 多次提到的"先假设模型已被攻陷"，出自他十月中旬发表的长文。*
+*本文根据 20VC 于 2026 年 10 月 26 日发布的访谈视频整理，由 NOMI 编辑。Nadella 多次提到的“先假定模型已经失守”，出自他在十月中旬发表的一篇长文。*
 
 来源：
 
-- 原视频：[YouTube — Satya Nadella on Open vs Closed Models](https://www.youtube.com/watch?v=24XUcWhqY_4)
-- 相关阅读：[Satya Nadella《前沿生态系统》](/reading/satya-frontier-ecosystem)（本站早前译文）
+- 原视频：[YouTube](https://www.youtube.com/watch?v=24XUcWhqY_4)
+- 相关阅读：[Satya Nadella《前沿生态系统》](/reading/satya-frontier-ecosystem)（本站此前译文）

diff --git a/public/reports/satya-nadella-20vc-en.md b/public/reports/satya-nadella-20vc-en.md
@@ -34,7 +34,7 @@
 
 **Satya**: If you leave AI safety aside, the trust architecture is going to be the kind of work a company like Microsoft does, or all the people in cybersecurity do. For example, we've built these two things, Agent 365 and Perception. What do they do? They give every agent an identity, then log all its activity: all its tool calls—in fact, every model call and the chain of thought (CoT) within it. That's where I'm also asking that all the CoT had better be in English, not “neuralese,” so you can inspect it using multiple models. Those logs had better be tamper-proof; you can't have an agent going back and modifying its own logs. On top of that, you set policy and then monitor the agents' behavior to check that their activity conforms to that policy. That's the architecture.
 
-![Zero-trust containment: an AI agent inside a glass shield, its tamper-proof log scroll kept outside its reach](/images/reading/satya-nadella-20vc-1.jpg)
+![Assume the model is compromised: identity, logs, tamper-proofing, policy and monitoring around the model](/images/reading/satya-nadella-20vc-en-1.jpg)
 
 **Harry**: We don't have that architecture today. Is that simply a reflection of where we are in the process?
 
@@ -46,7 +46,7 @@
 
 **Satya**: It isn't. We know that the chain of thought itself can be unfaithful. It gets worse when the model company says, “Well, it's unfaithful, so I'm going to hide it.” (Laughs.) That makes it even more problematic.
 
-![Chain of thought under a magnifying glass, with a few faded, unfaithful links](/images/reading/satya-nadella-20vc-2.jpg)
+![Chain of thought is not reliable: unfaithful links under a magnifying glass; make it inspectable and auditable](/images/reading/satya-nadella-20vc-en-2.jpg)
 
 **Satya**: That's where I think we need a bit of a push for standardization, and for CoT to be available as is, at least to trusted partners. It needs to be inspectable and auditable, so I can check it using multiple models and so on. Frankly, that's one of the things that may even drive more use of open weights. It's funny: closed models are more powerful, but if their providers don't recognize the need to be more transparent, especially as their trusted partners use those models, then we may have a problem.
 
@@ -70,7 +70,7 @@
 
 **Satya**: The interesting part is that it's a learned model. We're moving into agent swarms and multiple subagents, so I can call lots of subagents that may even be local models. My suspicion is that there will always be a market for the frontier. There will always be something new; science may be where the next frontier is set. **But most token usage will be commodity token usage.**
 
-![A tall frontier peak and a wide, calm river of commodity tokens flowing through a router gate](/images/reading/satya-nadella-20vc-3.jpg)
+![Most tokens become commodities: the frontier peak, the router gate and a river of commodity tokens](/images/reading/satya-nadella-20vc-en-3.jpg)
 
 **Harry**: Does that mean it will predominantly be open source?
 
@@ -90,7 +90,7 @@
 
 **Satya**: And that doesn't have to happen only by embedding your knowledge in weights. It can be in context or in your evals. You may have a benchmark. One idea I'm very enthusiastic about is that every firm will have a private eval benchmark that is its core IP. Every model comes in and tries to hill-climb on that eval. To me, that's how a firm works.
 
-![Models climbing switchbacks toward a flag on a firm's own summit: private evals](/images/reading/satya-nadella-20vc-4.jpg)
+![Private evals are a firm's core IP: models hill-climb on your eval; your standard of judgment stays](/images/reading/satya-nadella-20vc-en-4.jpg)
 
 **Harry**: I love this idea of private eval benchmarks for each company. But it seems to be the preserve of a rarefied set of companies—Harvey and similar, very forward-thinking AI-native businesses. Will it spread to every company in the world?
 
@@ -104,7 +104,7 @@
 
 **Satya**: It's interesting: an implementation economy and systems integrators have always existed. We've depended on them for the diffusion of many other technologies. This one has different contours because it combines technology and business. It isn't classic management consulting, classic systems integration, or classic technology support.
 
-![A bridge under construction between a business building and an engineering gear: the implementation economy](/images/reading/satya-nadella-20vc-5.jpg)
+![The implementation economy in four steps, with the Unilever order-to-cash case](/images/reading/satya-nadella-20vc-en-5.jpg)
 
 **Satya**: For example, think about where you want to start. When I look at our FDE engagements, take even the Unilever example I discussed in today's keynote. It's fascinating. They've built an agentic system and said, “We're really going to automate order to cash using an agentic system,” plus trade claims. They started by using a frontier model, and then they substituted another model. In fact, I think they're currently using an MAI model for all their trade claims because it's lower cost. And, by the way, they control it, because they're able to train on their own traces. We had some FDEs who were deployed, and now their own IT team is managing it all.
 
@@ -142,7 +142,7 @@
 
 **Satya**: I think so, and I hope so, because that's the point. Take the amount we spend on healthcare as a share of GDP. I look at the deployment of Copilot in the NHS and think: if it can improve patient outcomes and reduce healthcare costs, that is, by definition, helping the UK's GDP.
 
-![A flat 2 percent growth line bending upward, light spreading over a world map outline](/images/reading/satya-nadella-20vc-6.jpg)
+![Can AI lift global growth? The flat 2% line, healthcare and software, and $100B training runs paid for by growth](/images/reading/satya-nadella-20vc-en-6.jpg)
 
 **Satya**: There are pockets of the economy that are ripe for AI adoption, with the least displacement and the greatest benefit. That's where we need to find the best fit. Software development is another example. It's fascinating to see how elastic demand for software development is. It means the IT backlogs were huge, and none of us even recognized it.
 
